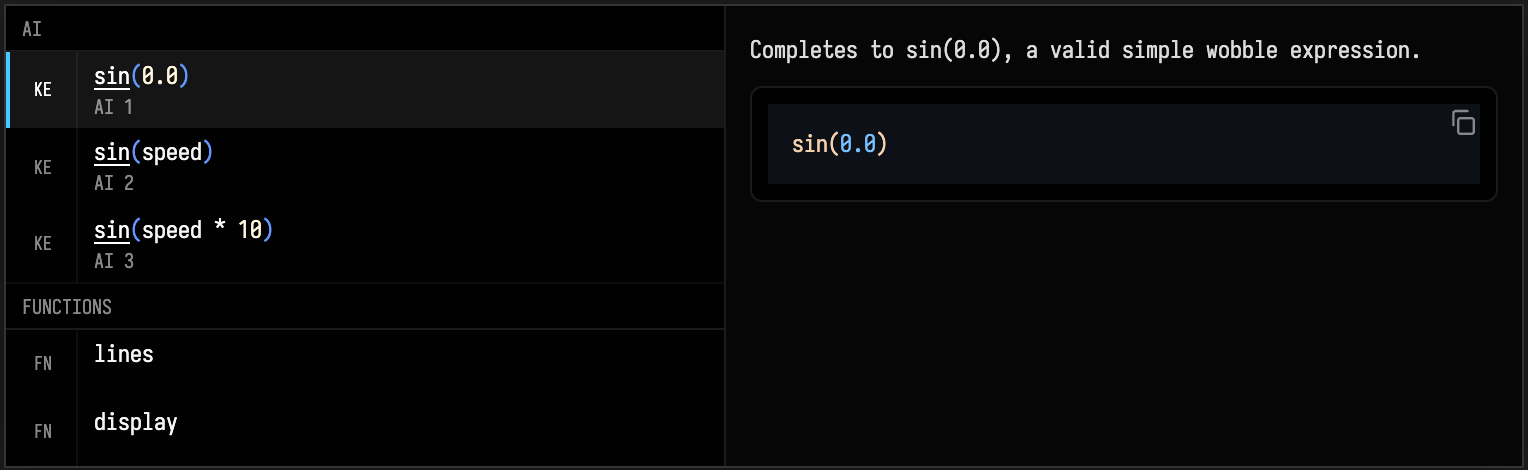
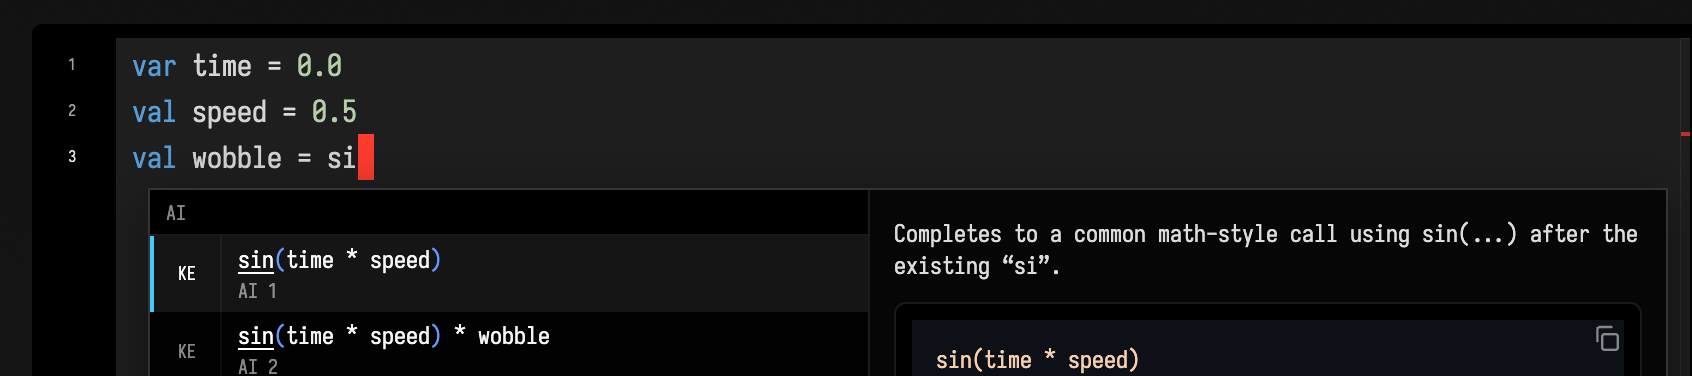
docs(autocomplete): include editor context, add var time to wobble scope, hide ok badge
Refines the capture=ui autocomplete captures per review:
- region="editor" so the code line(s) being typed show above the popup
- ai-autocomplete: `var time = 0.0` now in scope, so the AI suggests
  sin(time * speed) — a more compelling wobble example
- hide the inline "ok" execution-status decoration (.tick_text.ok) during
  capture so the code line reads cleanly
- clear completion recency (localStorage) before capture for determinism

diff --git a/public/docs/survivalGuide.md b/public/docs/survivalGuide.md
@@ -62,17 +62,20 @@ For it's main code-writing experience _Field·4_ wraps the [Monaco text editor](
 
 One of the most useful keyboard shortcuts of all is autocomplete — `ctrl-space`. Use it to provide ideas about what you might type, and documentation about those things:
 
-```diffstatic_runner {data-lang=kotlin capture="ui" region="window" clip-selector=".afield-suggest" screenshot="assets/autocomplete.png" padding="2" wait="0" timeout="90" embed=true hidden=true name="autocomplete"}
+```diffstatic_runner {data-lang=kotlin capture="ui" region="editor" screenshot="assets/autocomplete.png" wait="0" timeout="90" embed=true hidden=true name="autocomplete"}
+ui.eval("window.localStorage.removeItem('field.suggest.recency.v1'); var s=document.createElement('style');s.textContent='.tick_text.ok{display:none !important}';document.head.appendChild(s);return 'setup';")
 ui.openEditor(id)
 ui.pause(700)
 ui.clickSelector(".monaco-editor")
 ui.pause(300)
 ui.press("Control+A")
-ui.type("val axis = Vec")
+ui.type("val axis = vec")
 ui.pause(300)
 ui.press("Control+Space")
-ui.waitForSelector(".afield-suggest-row", 15000.0)
-ui.pause(1000)
+// Wait (generously, to cover a cold JVM's first-completion compile) for the
+// enriched RPC completion — it replaces the bare quick item and carries the docs.
+ui.waitForSelector("text=fun vec", 30000.0)
+ui.pause(1200)
 ```
 
 With AI support enabled, this will include up to 3 AI generated suggests of what you might type next. These are more likely to be incorrect (in the sense that completions generated by type-based are generally very, very good); but also more likely to be ambitious and lengthy. Our GLSL completions are, in particular, often exactly what you want.

diff --git a/public/docs/aiFeatures.md b/public/docs/aiFeatures.md
@@ -42,18 +42,19 @@ Green lines are additions and red deletions. This may include changes to other p
 
 `ctrl-space` opens Field's custom completion panel. Field typically does a type-based analysis of what can complete here (Kotlin's internal compiler for Kotlin, the Jedi package for Python etc.); in the background it also fires off a request for up to 3 AI completions and updates the same FieldSuggest list when they arrive:
 
-```diffstatic_runner {data-lang=kotlin capture="ui" region="window" clip-selector=".afield-suggest" screenshot="assets/ai-autocomplete.png" padding="2" wait="0" timeout="90" embed=true hidden=true name="ai-autocomplete"}
+```diffstatic_runner {data-lang=kotlin capture="ui" region="editor" screenshot="assets/ai-autocomplete.png" wait="0" timeout="90" embed=true hidden=true name="ai-autocomplete"}
+ui.eval("window.localStorage.removeItem('field.suggest.recency.v1'); var s=document.createElement('style');s.textContent='.tick_text.ok{display:none !important}';document.head.appendChild(s);return 'setup';")
 ui.openEditor(id)
 ui.pause(700)
 ui.clickSelector(".monaco-editor")
 ui.pause(300)
 ui.press("Control+A")
-ui.type("val speed = 0.5\nval wobble = si")
+ui.type("var time = 0.0\nval speed = 0.5\nval wobble = si")
 ui.pause(300)
 ui.press("Control+Space")
-ui.waitForSelector(".afield-suggest-row", 15000.0)
-ui.waitForSelector("text=AI 1", 12000.0)
-ui.pause(400)
+ui.waitForSelector(".afield-suggest-row", 30000.0)
+ui.waitForSelector("text=AI 1", 20000.0)
+ui.pause(600)
 ```
 
 In our testing these things seem to be particularly good at GLSL code, often one-shotting large chunks of the standard issue "Book of Shaders"-level shader repertoire. 
